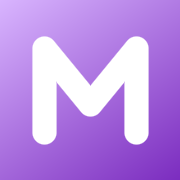
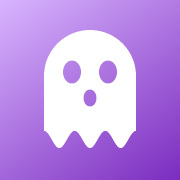
Mob se signe par un fantôme
Le « M » cède la place à un petit fantôme, aux trois endroits où Mob se
présente : la pastille de la barre latérale, l'écran d'accueil de la
conversation, et l'avatar quand aucun nom n'est renseigné. L'icône de
l'écran d'accueil suit.

Deux choses ont demandé un aller-retour. Le premier tracé SVG et celui de
l'icône n'avaient pas les mêmes proportions : l'app et l'écran d'accueil
montraient deux personnages différents. Ils décrivent maintenant la même
géométrie. Et les lobes du bas, sans plancher, se rejoignaient en pointe —
le fantôme ressemblait à une mâchoire.

Les yeux et la bouche sont des trous plutôt que des formes coloriées, pour
qu'ils laissent voir le dégradé quel que soit le support.

C'est un fantôme dessiné pour Mob, pas une reprise de celui de Snapchat
qui est une marque déposée.

Changed region(s): [[0.1667, 0.1667, 0.8333, 0.8333]]

diff --git a/docs/index.html b/docs/index.html
@@ -384,6 +384,11 @@
   }
 
   .empty { margin: auto; text-align: center; color: var(--muted); padding: 30px 20px; }
+  /* Le fantôme de Mob. Il prend la couleur de son support, donc le même
+     tracé sert pour la pastille de la barre latérale, l'écran d'accueil de
+     la conversation et l'avatar sans nom. */
+  .ghost { display: block; width: auto; height: 66%; fill: currentColor; }
+
   .empty .big {
     width: 62px; height: 62px; margin: 0 auto 16px; border-radius: 21px;
     background: linear-gradient(140deg, var(--accent-2), var(--accent));
@@ -914,7 +919,7 @@
 
   <nav id="nav">
     <div class="nav-brand">
-      <div class="mark">M</div>
+      <div class="mark"><svg class="ghost" viewBox="0 0 92 118" aria-hidden="true" focusable="false"><path fill-rule="evenodd" d="M0 46A46 46 0 0 1 92 46V96Q76.67 137.6 61.33 100.84Q46 135.2 30.67 100.84Q15.33 137.6 0 96ZM19 42a9 11.5 0 1 0 18 0 9 11.5 0 1 0-18 0ZM55 42a9 11.5 0 1 0 18 0 9 11.5 0 1 0-18 0ZM39.5 68a6.5 8.5 0 1 0 13 0 6.5 8.5 0 1 0-13 0Z"/></svg></div>
       <div><b>Mob</b><small id="navSub">Assistant</small></div>
     </div>
     <div class="nav-main">
@@ -947,6 +952,11 @@
   var RELAY_URL = "";
   var IMAGE_ENDPOINT = "https://image.pollinations.ai/prompt/";
   var DRAWN_MESSAGES = 60;
+
+  // Le tracé du fantôme, écrit une fois et posé partout où Mob se signe.
+  // innerHTML n'accueille que cette constante — jamais du texte venu du
+  // modèle ou de l'utilisateur, qui passe toujours par textContent.
+  var GHOST = '<svg class="ghost" viewBox="0 0 92 118" aria-hidden="true" focusable="false"><path fill-rule="evenodd" d="M0 46A46 46 0 0 1 92 46V96Q76.67 137.6 61.33 100.84Q46 135.2 30.67 100.84Q15.33 137.6 0 96ZM19 42a9 11.5 0 1 0 18 0 9 11.5 0 1 0-18 0ZM55 42a9 11.5 0 1 0 18 0 9 11.5 0 1 0-18 0ZM39.5 68a6.5 8.5 0 1 0 13 0 6.5 8.5 0 1 0-13 0Z"/></svg>';
 
   var DEFAULT_PROMPT =
     "Tu es Mob, l'assistant personnel de l'utilisateur. Réponds en français, " +
@@ -1575,7 +1585,8 @@
       var empty = document.createElement("div");
       empty.className = "empty";
       var big = document.createElement("div");
-      big.className = "big"; big.textContent = "M";
+      big.className = "big";
+      big.innerHTML = GHOST;
       empty.appendChild(big);
       var strong = document.createElement("strong");
       strong.textContent = "Mob est prêt.";
@@ -2109,7 +2120,8 @@
     els.profileName.textContent = name || "Invité";
     els.profileRole.textContent = !connected ? "Non connecté"
       : isAdmin() ? "Administrateur" : "Utilisateur";
-    els.avatar.textContent = (name ? name.charAt(0) : "M").toUpperCase();
+    if (name) els.avatar.textContent = name.charAt(0).toUpperCase();
+    else els.avatar.innerHTML = GHOST;
     if (currentView === "home") {
       els.headTitleText.textContent = name ? "Bonjour, " + name : "Bonjour";
     }

diff --git a/tools/make-icon.py b/tools/make-icon.py
@@ -1,34 +1,70 @@
 #!/usr/bin/env python3
-"""Régénère docs/icon.png — le « M » de l'écran d'accueil.
+"""Régénère docs/icon.png — le fantôme de Mob.
 
 Écrit le PNG à la main (zlib + struct) : aucune dépendance tierce, comme le
-reste du projet. Les couleurs sont celles du dégradé de l'app, pour que
-l'icône et l'interface ne se contredisent pas.
+reste du projet. Le fantôme est le même que celui dessiné en SVG dans la
+page ; les couleurs sont celles du dégradé de l'app, pour que l'icône et
+l'interface ne se contredisent pas.
 
     python3 tools/make-icon.py
 """
-import struct, zlib, pathlib
+import math, struct, zlib, pathlib
 
 SIZE = 180
-TOP = (0xD8, 0xB4, 0xFE)   # --accent-2
-BOTTOM = (0x7B, 0x2C, 0xBF)  # violet profond, fin du dégradé
+TOP = (0xD8, 0xB4, 0xFE)     # --accent-2
+BOTTOM = (0x7B, 0x2C, 0xBF)  # fin du dégradé
 INK = (0xFF, 0xFF, 0xFF)
 
+# Géométrie du fantôme, en pixels de l'icône.
+CX, DOME_Y, R = 90.0, 76.0, 46.0     # la coupole
+FLANC_BAS = 126.0                    # où les flancs cèdent aux festons
+LOBES, PROFONDEUR = 3, 22.0          # trois bosses vers le bas
+CREUX_MINI = 0.22                    # les creux ne remontent pas jusqu'au corps
+GAUCHE, DROITE = CX - R, CX + R
 
-def segment_distance(px, py, ax, ay, bx, by):
-    dx, dy = bx - ax, by - ay
-    span = dx * dx + dy * dy
-    t = 0.0 if not span else max(0.0, min(1.0, ((px - ax) * dx + (py - ay) * dy) / span))
-    cx, cy = ax + t * dx, ay + t * dy
-    return ((px - cx) ** 2 + (py - cy) ** 2) ** 0.5
+YEUX = [(72.0, 72.0, 9.0, 11.5), (108.0, 72.0, 9.0, 11.5)]
+BOUCHE = (90.0, 98.0, 6.5, 8.5)
 
 
-# Le « M » : deux montants et deux diagonales qui se rejoignent au centre.
-STROKES = [
-    (44, 132, 44, 48), (136, 132, 136, 48),
-    (44, 48, 90, 104), (136, 48, 90, 104),
-]
-HALF = 11.5
+def dans_ellipse(x, y, cx, cy, rx, ry):
+    return ((x - cx) / rx) ** 2 + ((y - cy) / ry) ** 2 <= 1.0
+
+
+def dans_fantome(x, y):
+    """Coupole ronde, flancs droits, bas festonné — puis les trous."""
+    if y < DOME_Y:
+        if (x - CX) ** 2 + (y - DOME_Y) ** 2 > R * R:
+            return False
+    elif y <= FLANC_BAS:
+        if not (GAUCHE <= x <= DROITE):
+            return False
+    else:
+        if not (GAUCHE <= x <= DROITE):
+            return False
+        # Une cosinusoïde donne des lobes qui reviennent pile au bord.
+        # Sans le plancher CREUX_MINI, les lobes se rejoignent en pointe et
+        # le fantôme se met à ressembler à une mâchoire.
+        t = (x - GAUCHE) / (2 * R)
+        onde = 0.5 - 0.5 * math.cos(2 * math.pi * LOBES * t)
+        creux = FLANC_BAS + PROFONDEUR * (CREUX_MINI + (1 - CREUX_MINI) * onde)
+        if y > creux:
+            return False
+
+    for cx, cy, rx, ry in YEUX + [BOUCHE]:
+        if dans_ellipse(x, y, cx, cy, rx, ry):
+            return False       # les yeux et la bouche laissent voir le fond
+    return True
+
+
+def couverture(x, y):
+    """Trois sous-points par axe : sans ça, le contour est crénelé."""
+    dedans = 0
+    for i in range(3):
+        for j in range(3):
+            if dans_fantome(x + (i + 0.5) / 3, y + (j + 0.5) / 3):
+                dedans += 1
+    return dedans / 9.0
+
 
 rows = []
 for y in range(SIZE):
@@ -36,15 +72,14 @@ for y in range(SIZE):
     for x in range(SIZE):
         # Dégradé diagonal, comme le linear-gradient(140deg, …) de la page.
         t = (x * 0.42 + y * 0.58) / SIZE
-        base = tuple(round(TOP[i] + (BOTTOM[i] - TOP[i]) * t) for i in range(3))
-        near = min(segment_distance(x, y, *s) for s in STROKES)
-        if near <= HALF:
+        fond = tuple(round(TOP[i] + (BOTTOM[i] - TOP[i]) * t) for i in range(3))
+        k = couverture(x, y)
+        if k <= 0:
+            row += bytes(fond)
+        elif k >= 1:
             row += bytes(INK)
-        elif near <= HALF + 1.2:        # bord adouci : sinon le M est crénelé
-            k = (near - HALF) / 1.2
-            row += bytes(round(INK[i] + (base[i] - INK[i]) * k) for i in range(3))
         else:
-            row += bytes(base)
+            row += bytes(round(fond[i] + (INK[i] - fond[i]) * k) for i in range(3))
     rows.append(bytes(row))
 
 

diff --git a/CLAUDE.md b/CLAUDE.md
@@ -326,8 +326,25 @@ Playwright cherche son propre téléchargement.
 
 L'icône (`docs/icon.png`) est régénérée par `python3 tools/make-icon.py`
 — PNG écrit à la main en stdlib, aux couleurs du dégradé de l'app. Si tu
-changes la palette, relance-le : une icône jaune sur une app violette,
-c'est le genre de détail qui se remarque sur l'écran d'accueil.
+changes la palette, relance-le.
+
+**Le fantôme est dessiné deux fois, garde-les d'accord.** Le tracé SVG
+(constante `GHOST` dans `docs/index.html`, posée sur la pastille de la
+barre latérale, l'écran d'accueil de la conversation et l'avatar sans nom)
+et le tracé Python de `tools/make-icon.py` décrivent la **même** géométrie :
+coupole de rayon 46, flancs jusqu'à 96, trois lobes jusqu'à 118, yeux et
+bouche aux mêmes places. Une première version avait des proportions
+différentes entre les deux — l'icône et l'app montraient deux personnages.
+Si tu retouches l'un, retouche l'autre et regarde les deux rendus.
+
+Deux détails du dessin qui ont demandé une correction : les lobes du bas
+doivent avoir un **plancher** (`CREUX_MINI`), sinon ils se rejoignent en
+pointe et le fantôme ressemble à une mâchoire ; et les yeux et la bouche
+sont des **trous** (`fill-rule="evenodd"`), pas des formes coloriées, pour
+qu'ils laissent voir le dégradé quel que soit le support.
+
+C'est un fantôme générique, dessiné pour Mob — pas le logo de Snapchat,
+qui est une marque déposée. Ne le remplace pas par une copie de celui-ci.
 
 **Le rouge qui n'en est pas un** : juste après une fusion, le CDN de
 GitHub Pages sert encore l'ancienne page pendant une minute ou deux. La

diff --git a/README.md b/README.md
@@ -128,7 +128,7 @@ de l'app, ce sont deux emplacements séparés par le système.
 `tests/ui-check.mjs` pilote un navigateur et **clique chaque bouton**,
 en vérifiant l'effet obtenu — le thème change-t-il vraiment, la clé
 survit-elle à un rechargement — plutôt que la présence des éléments
-dans le HTML. 79 contrôles, plus 13 sur le relais.
+dans le HTML. 80 contrôles, plus 13 sur le relais.
 
 `.github/workflows/health-check.yml` la rejoue **toutes les 3 heures**
 sur le site en ligne, à chaque poussée sur `main`, et sur chaque pull
